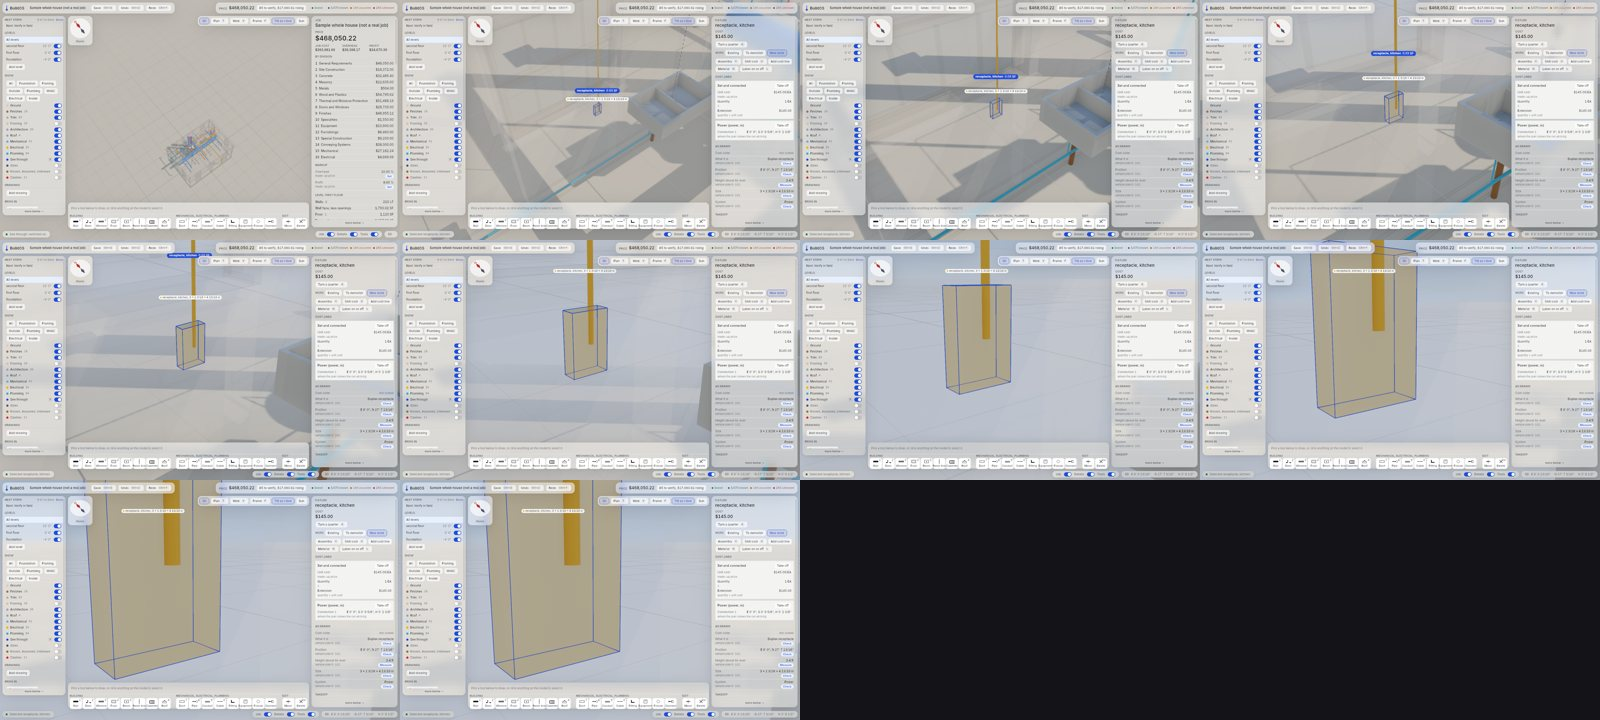
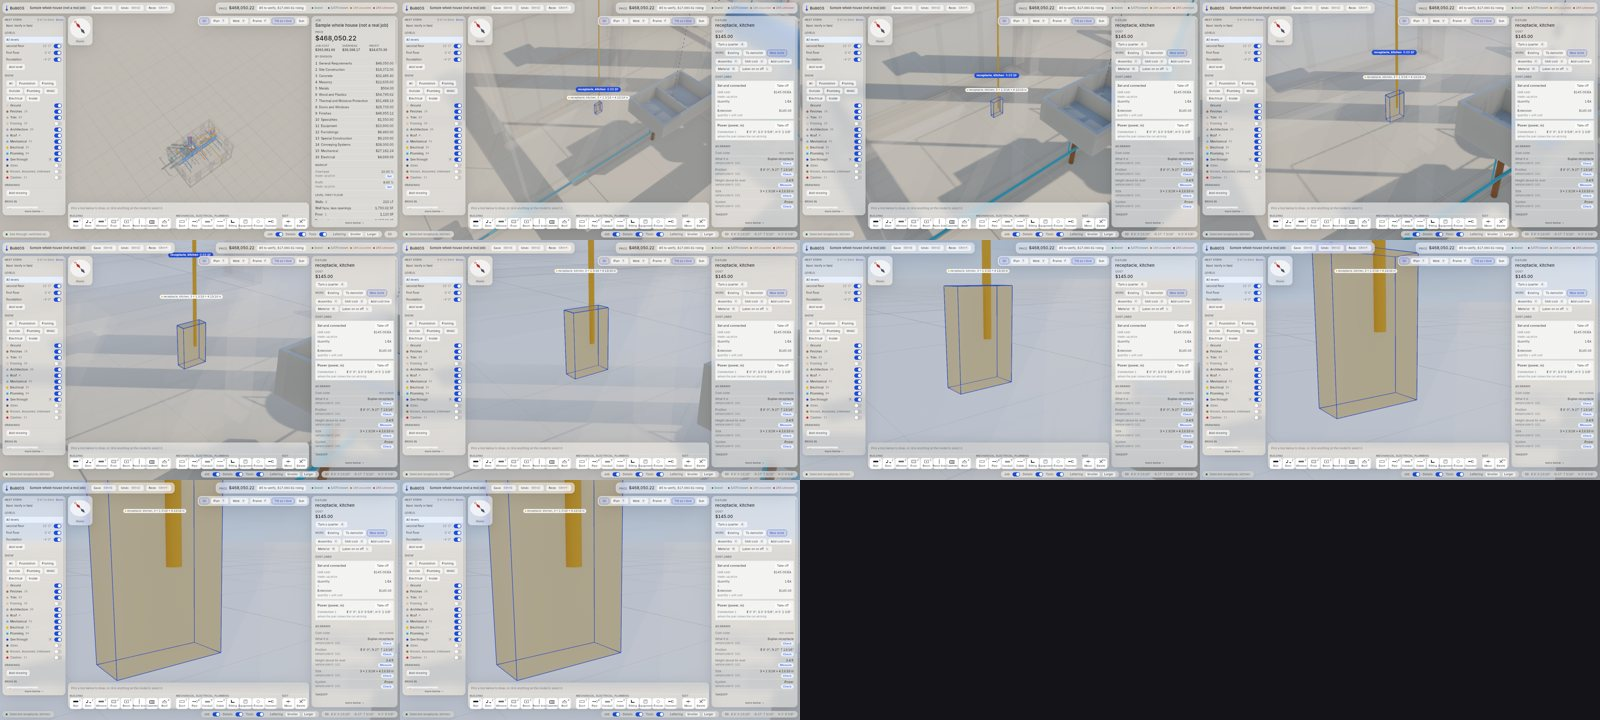
STATUS and the manual: three window demonstrations pass alone on the head; five pictures retaken
twoplansw, tradesw and navw, run by the lead with nothing beside them on the build of 18e0ad8.

Claude-Session: https://claude.ai/code/session_01PMY5GR1pyFiKe392HD99bv

diff --git a/plumbline/manual/index.html b/plumbline/manual/index.html
@@ -81,7 +81,7 @@ footer{grid-column:1/-1;border-top:1px solid var(--line);padding-top:10px;color:
 <h2 id="3-move-the-view">3. Move the view</h2>
 <ul><li><b>Wheel</b>: the view dives at the place under the pointer. One wheel goes from the whole lot to one hinge.</li><li><b>Drag</b>: the ground moves with your hand. A flick continues and slows down.</li><li><b>Right drag</b>, or <b>Shift and drag</b>, or the <b>arrow keys</b>: tilt and turn.</li><li><b>Double-click</b> a thing: the view flies to it. <b>F</b> frames the selected thing.</li><li><b>North arrow</b>: one click turns the view north-up. A double-click looks straight down.</li><li><b>Page Up</b> and <b>Page Down</b> go from level to level. <b>T</b> goes between plan and 3D.</li><li><b>Tilt as I dive</b> is a switch on the view bar.</li></ul>
 <p>No view jumps. Each move starts slowly and stops slowly.</p>
-<figure><a href="pictures/view-dive.jpg"><img src="pictures/view-dive.jpg" width="1600" height="720" loading="lazy" alt="A strip of pictures across one dive of the wheel, from the lot to a fixture."></a><figcaption>A strip of pictures across one dive of the wheel, from the lot to a fixture. <span class="stamp">Picture of commit <code>331632a</code>, 2026-11-26.</span></figcaption></figure>
+<figure><a href="pictures/view-dive.jpg"><img src="pictures/view-dive.jpg" width="1600" height="720" loading="lazy" alt="A strip of pictures across one dive of the wheel, from the lot to a fixture."></a><figcaption>A strip of pictures across one dive of the wheel, from the lot to a fixture. <span class="stamp">Picture of commit <code>18e0ad8</code>, 2026-11-26.</span></figcaption></figure>
 <p>Proven by <code>demos/navw.sh</code>. The script reads the path of the view frame by frame.</p>
 <h2 id="4-bring-in-a-plan-and-set-its-scale">4. Bring in a plan and set its scale</h2>
 <ol><li>On the Job panel, select <b>Add drawing</b>. Pick the file from the list. Pick the page.</li><li>Select <b>Set scale</b>. Click the two ends of one dimension on the drawing. Type the length that the dimension shows.</li><li>To put a second drawing in line with the first, select <b>Line up</b>.</li></ol>
@@ -102,7 +102,7 @@ footer{grid-column:1/-1;border-top:1px solid var(--line);padding-top:10px;color:
 <p>Proven by <code>demos/fieldw.sh</code> and <code>demos/field-sheet.sh</code>.</p>
 <h2 id="7-clashes-and-the-verify-in-field-list">7. Clashes and the verify-in-field list</h2>
 <ul><li>A clash between <b>Assumed</b> things is a <b>question for the field</b>.</li><li>A clash between <b>Known</b> things is a <b>finding</b>.</li><li>In the estimate window, the tab <b>Clashes</b> lists them. The tab <b>Verify in field</b> lists each question, where it is, and the dollars that depend on it. The largest dollars are first.</li><li>Pick up a thing and move it (section 9). Its clashes light and clear while it moves.</li></ul>
-<figure><a href="pictures/clash.jpg"><img src="pictures/clash.jpg" width="1800" height="690" loading="lazy" alt="Clashes marked on the house, and the list of them in the estimate window."></a><figcaption>Clashes marked on the house, and the list of them in the estimate window. <span class="stamp">Picture of commit <code>76854a3</code>, 2026-11-23.</span></figcaption></figure>
+<figure><a href="pictures/clash.jpg"><img src="pictures/clash.jpg" width="1800" height="690" loading="lazy" alt="Clashes marked on the house, and the list of them in the estimate window."></a><figcaption>Clashes marked on the house, and the list of them in the estimate window. <span class="stamp">Picture of commit <code>18e0ad8</code>, 2026-11-26.</span></figcaption></figure>
 <p>Proven by <code>demos/clashw.sh</code>, <code>demos/tradesw.sh</code>, <code>demos/clash.sh</code> and <code>demos/vif.sh</code>.</p>
 <h2 id="8-the-estimate-window">8. The estimate window</h2>
 <ul><li>The tab <b>Estimate</b> shows the recap and the 16 divisions. Other tabs show one division, the budget, the clashes and the field list.</li><li>Each line shows its quantity, its formula and its source. You can change the stretch-out on the line.</li><li>You can switch labor on or off for each line.</li><li><b>Overhead</b> and <b>Profit</b> are fields. Type a new percent.</li><li><b>Price list</b> (on the Job panel) brings in a supplier&#x27;s list. The window shows three suppliers side by side.</li><li>A price per SF or LF grows into line items for the same condition. The detail rolls up again to the same line.</li></ul>
@@ -123,8 +123,8 @@ footer{grid-column:1/-1;border-top:1px solid var(--line);padding-top:10px;color:
 <h2 id="11-see-each-trade">11. See each trade</h2>
 <p>The <b>Show</b> part of the Job panel has one switch for each layer: Foundation, Framing, Outside, Plumbing, HVAC, Electrical, Inside, Ground, Finishes, Roof, See through, Sizes. Each switch reads on or off at a glance. A trade is drawn only where the estimate prices it.</p>
 <p><b>Sun</b> on the view bar sets the month and the hour.</p>
-<figure><a href="pictures/trades-framing.jpg"><img src="pictures/trades-framing.jpg" width="1600" height="960" loading="lazy" alt="The frame of the walls, with the finishes switched off."></a><figcaption>The frame of the walls, with the finishes switched off. <span class="stamp">Picture of commit <code>76854a3</code>, 2026-11-23.</span></figcaption></figure>
-<figure><a href="pictures/trades-hvac.jpg"><img src="pictures/trades-hvac.jpg" width="1600" height="960" loading="lazy" alt="The ducts, with the house see-through."></a><figcaption>The ducts, with the house see-through. <span class="stamp">Picture of commit <code>76854a3</code>, 2026-11-23.</span></figcaption></figure>
+<figure><a href="pictures/trades-framing.jpg"><img src="pictures/trades-framing.jpg" width="1600" height="960" loading="lazy" alt="The frame of the walls, with the finishes switched off."></a><figcaption>The frame of the walls, with the finishes switched off. <span class="stamp">Picture of commit <code>18e0ad8</code>, 2026-11-26.</span></figcaption></figure>
+<figure><a href="pictures/trades-hvac.jpg"><img src="pictures/trades-hvac.jpg" width="1600" height="960" loading="lazy" alt="The ducts, with the house see-through."></a><figcaption>The ducts, with the house see-through. <span class="stamp">Picture of commit <code>18e0ad8</code>, 2026-11-26.</span></figcaption></figure>
 <p>Proven by <code>demos/tradesw.sh</code>, <code>demos/dressw.sh</code>, <code>demos/trimw.sh</code> and <code>demos/lightw.sh</code>.</p>
 <h2 id="12-bring-in-and-write-out">12. Bring in and write out</h2>
 <p>The window brings in these files, each picked from a list:</p>
@@ -154,7 +154,7 @@ footer{grid-column:1/-1;border-top:1px solid var(--line);padding-top:10px;color:
 <p>Proven by <code>demos/bringw.sh</code>, <code>demos/scanw.sh</code> and the command-line demonstrations <code>imports</code>, <code>export</code>, <code>dxf</code>, <code>scan-files</code>, <code>marks</code>, <code>database</code>, <code>field-sheet</code>, <code>bcf</code> and <code>gltf</code>.</p>
 <h2 id="13-two-plans-side-by-side">13. Two plans side by side</h2>
 <p>At the top of the estimate window, select <b>Plan</b>. The window shows a plan in place of the estimate. Select <b>Two plans</b> to show two: two levels, or a drawing beside its tracing. Each plan moves by the same wheel and drag as the model window. A thing that you select in one window is marked in the other.</p>
-<figure><a href="pictures/two-plans.jpg"><img src="pictures/two-plans.jpg" width="880" height="960" loading="lazy" alt="The second window with the first floor beside the second floor."></a><figcaption>The second window with the first floor beside the second floor. <span class="stamp">Picture of commit <code>1d0f84d</code>, 2026-11-26.</span></figcaption></figure>
+<figure><a href="pictures/two-plans.jpg"><img src="pictures/two-plans.jpg" width="880" height="960" loading="lazy" alt="The second window with the first floor beside the second floor."></a><figcaption>The second window with the first floor beside the second floor. <span class="stamp">Picture of commit <code>18e0ad8</code>, 2026-11-26.</span></figcaption></figure>
 <p>Proven by <code>demos/twoplansw.sh</code>.</p>
 <div class="part">The state of the program (from STATUS.md)</div>
 <p>What is so now. This file is short and is rewritten in place (DECISIONS.md call 238): nothing is added below, and what is no longer so is taken out. How it came to be so is the calls in <code>DECISIONS.md</code> (<code>DECISIONS-index.md</code> finds one). Everything this file held before 2026-11-26 is <code>STATUS-history.md</code>.</p>
@@ -164,7 +164,7 @@ footer{grid-column:1/-1;border-top:1px solid var(--line);padding-top:10px;color:
 <div class="scroll"><table><thead><tr><th>Step</th><th>What</th><th>Where it stands</th></tr></thead><tbody>
 <tr><td>1</td><td>The lead&#x27;s checks in the repository</td><td><b>Done.</b> <code>tools/check.sh</code>, <code>tools/window-run.sh</code>, <code>tools/quiet.sh</code>, <code>tools/index.sh</code>.</td></tr>
 <tr><td>2</td><td>Window demonstrations made sure; all forty-five run with nothing beside them</td><td><b>Begun.</b> See &quot;The window&quot; below.</td></tr>
-<tr><td>3</td><td>The manual; <code>demos/captured/</code> let go</td><td><b>Done, and it goes on</b>: <code>manual/index.html</code> (written by <code>tools/manual.py</code> from <code>manual/manual.md</code>, this file and <code>manual/pictures/</code>) is published to Patrick as one artifact, <code>https://claude.ai/artifact/DTAkAoTGMcTYEkVAXdHLYt</code> (to change it: <code>tools/manual.py take</code> the new pictures, <code>tools/manual.py build</code>, <code>tools/manual.py page &lt;file&gt;</code>, and publish that file with the pictures to the same address). Seventeen pictures, each stamped with the commit it is of; they are replaced as step 2&#x27;s runs give new ones. <code>demos/captured/</code> is no longer kept in the repository.</td></tr>
+<tr><td>3</td><td>The manual; <code>demos/captured/</code> let go</td><td><b>Done, and it goes on</b>: <code>manual/index.html</code> (written by <code>tools/manual.py</code> from <code>manual/manual.md</code>, this file and <code>manual/pictures/</code>) is published to Patrick as one artifact, <code>https://claude.ai/artifact/DTAkAoTGMcTYEkVAXdHLYt</code> (to change it: <code>tools/manual.py take</code> the new pictures, <code>tools/manual.py build</code>, <code>tools/manual.py page &lt;file&gt;</code>, and publish that file with the pictures to the same address). Seventeen pictures, each stamped with the commit it is of (five are of 18e0ad8; the oldest is of 2026-11-23); they are replaced as step 2&#x27;s runs give new ones. <code>demos/captured/</code> is no longer kept in the repository.</td></tr>
 <tr><td>4</td><td>The documents put right</td><td><b>Done.</b> Four lists are written by tools and checked by the commit hook (<code>DECISIONS-index.md</code>, the README&#x27;s demonstrations, the table in <code>LICENSES.md</code>, the manual&#x27;s page). <code>TRY-IT.md</code> is gone: the manual takes its place.</td></tr>
 <tr><td>5</td><td>The earlier program off the branch; the commit hook BuildOS&#x27;s own</td><td><b>Done.</b> It is on <code>main</code>, whole.</td></tr>
 <tr><td>6</td><td>The window takes every kind of file the command line takes</td><td>Not begun.</td></tr>
@@ -173,9 +173,9 @@ footer{grid-column:1/-1;border-top:1px solid var(--line);padding-top:10px;color:
 <tr><td>9</td><td>Items 9 to 12 judged again</td><td>Not begun.</td></tr>
 </tbody></table></div>
 <h2 id="state-what-was-run-and-on-which-commit">What was run, and on which commit</h2>
-<ul><li><b>The command line&#x27;s side, on b6dc2ab</b> (the lead&#x27;s own run, 2026-11-26): 1,344 tests of the six crates pass (the model 759, the command line 94, the workbook 7, the BIM file 131, the roof 122, the plans 231); all 69 command-line demonstrations pass and none says FAIL; the three gates, the port map and the licence check pass; the sample whole house (<code>plumbline sixteen</code>) is 880d9fd3c364b5f7, as it has been, and prices at $393,981.66.</li><li><b>The window&#x27;s own tests, on the head with the double-click repair</b>: 109 pass.</li><li><b><code>tools/committed.sh</code> passed on 1edb650</b> (108 test runs from a clean copy). It has not been run since; it is owed before the next push that changes code.</li><li>After the earlier program left the branch, the roofing crate&#x27;s 122 tests were run again and pass (three of them read two of its files, now kept byte for byte in <code>crates/roofing/tests/engine/</code>). The two rewritten gates were each proved red and green (<code>tools/gate-language.sh --self-test</code>; a socket and a network crate for <code>tools/gate-egress.sh</code>).</li></ul>
+<ul><li><b>The command line&#x27;s side, on b6dc2ab</b> (the lead&#x27;s own run, 2026-11-26): 1,344 tests of the six crates pass (the model 759, the command line 94, the workbook 7, the BIM file 131, the roof 122, the plans 231); all 69 command-line demonstrations pass and none says FAIL; the three gates, the port map and the licence check pass; the sample whole house (<code>plumbline sixteen</code>) is 880d9fd3c364b5f7, as it has been, and prices at $393,981.66.</li><li><b>The window&#x27;s own tests, on the build of 18e0ad8</b>: 109 pass.</li><li><b><code>tools/committed.sh</code> passed on 1edb650</b> (108 test runs from a clean copy). It has not been run since; it is owed before the next push that changes code.</li><li>After the earlier program left the branch, the roofing crate&#x27;s 122 tests were run again and pass (three of them read two of its files, now kept byte for byte in <code>crates/roofing/tests/engine/</code>). The two rewritten gates were each proved red and green (<code>tools/gate-language.sh --self-test</code>; a socket and a network crate for <code>tools/gate-egress.sh</code>).</li></ul>
 <h2 id="state-the-window">The window</h2>
-<p><b>Not proven on the head.</b> The window builds on the head and its 109 tests pass. Of the forty-five window demonstrations, the lead&#x27;s last runs (2026-11-26, on the build before the head, with builds running beside them) gave: <code>screensw</code> passed; <code>twoplansw</code> failed twice at its step 7 (a double-click in a plan selected and did not fly); <code>tradesw</code> failed twice at a different click each time; the other forty-two were not run. Ten had passed on the build before that. <b>A repair of the double-click is in the working copy, not committed</b>: the demonstration&#x27;s two presses were 0.75 s apart and the program tells a double-click inside half a second of its own clock; the presses now go 0.4 s apart, and the model window&#x27;s double-click takes the same one function as the other two (<code>nav::again</code>). It is committed when <code>twoplansw</code> passes in the lead&#x27;s own run with nothing beside it.</p>
+<p><b>Three of forty-five proven on the head; the rest not yet run.</b> The window builds on the head and its 109 tests pass. Run by the lead on 2026-11-26 with nothing beside them (<code>tools/window-run.sh</code>), on the build of 18e0ad8: <code>twoplansw</code>, <code>tradesw</code> and <code>navw</code> each passed on its first run. The double-click in a plan that had failed twice was the demonstration&#x27;s own pacing (two presses 0.75 s apart, where the program tells a double-click inside half a second of its clock); it is repaired in 18e0ad8, and the three double-clicks of the program are now told by one function. The other forty-two were last run on earlier builds, some with builds beside them; they are run again, alone, when the kit job (contract 237K: a press waits until the window has drawn) is in.</p>
 <p><b>The rule that was broken, and is now held by a tool.</b> No build runs on the machine while a timed window demonstration runs. On 2026-11-26 the lead ran builds beside them in the idle class; <code>navw</code>, <code>tradesw</code> and <code>twoplansw</code> lost clicks or time, and a day&#x27;s window evidence with them. <code>tools/window-run.sh</code> holds a lock and waits for cargo to be gone; every other cargo command goes through <code>tools/quiet.sh</code>.</p>
 <p><b>What the window cannot do that the command line can</b> (step 6): bring in a CAD drawing (DXF), a TIFF, a scanner&#x27;s own files (LAS, LAZ, E57), the measured marks on a PDF, a maker&#x27;s model, the database, the field&#x27;s sheet; write out the issue list (BCF), the house as glTF, the field&#x27;s sheet, the database, the cabinet rules. It brings in PDF, PNG, JPEG, CSV, XLSX, IFC and PLY.</p>
 <p><b>Owed to the window from work already in the tree</b>: its three counts of the chest (48) become 57 (<code>cabinetsw</code>, <code>turnw</code>, <code>itemlibw</code>; call 235); a cabinet made by a rule says so; a starter shape is still drawn through the program&#x27;s list of forms and a washer&#x27;s door is square (call 235, points 4 and 5).</p>
@@ -197,7 +197,7 @@ footer{grid-column:1/-1;border-top:1px solid var(--line);padding-top:10px;color:
 <tr><td>13</td><td>A hand estimate in <code>refs/</code> reproduced, every difference explained</td><td><b>Pending</b>: there is none in <code>refs/</code>. Only Patrick can place one.</td></tr>
 </tbody></table></div>
 <h2 id="state-what-is-not-right">What is not right</h2>
-<ul><li>The window is behind the command line and unproven on the head (steps 2 and 6).</li><li>Eleven source files are over 2,000 lines (step 7): <code>crates/world/tests/world.rs</code> 6,713; <code>crates/cli/src/main.rs</code> 4,310; <code>crates/app/src/panels.rs</code> 4,017; <code>crates/world/src/building.rs</code> 3,944; <code>crates/app/src/scene.rs</code> 3,248; <code>crates/plans/src/found.rs</code> 2,930; <code>crates/ifc/src/lib.rs</code> 2,852; <code>crates/world/src/editing.rs</code> 2,666; and three more.</li><li>The repository&#x27;s history is 1.76 GB, most of it pictures. History is not rewritten (call 237). Pictures are no longer kept in the repository but for the manual&#x27;s (one fixed name each, about 3 MB together), and the README&#x27;s clone line takes only the newest commit.</li><li>The folder, the crates and the two commands are still named plumbline (step 8).</li><li>Neither wall finder turns a real phone scan, or a crowded plan, into walls by itself: a person traces and the finder helps.</li><li>A double-click is told by the program&#x27;s own clock, and a demonstration&#x27;s two presses must fall inside half a second of it. <code>twoplansw</code> was repaired for that; <code>navw</code>&#x27;s north arrow still sends its presses 0.6 s apart and passes only where a frame is slow. It is put right in step 2.</li><li>Designed and not built: an issue list (BCF) read back; a mesh brought in; glTF with each thing as its own shape; the sixteen division harnesses (<code>PROPOSALS.md</code> 21).</li></ul>
+<ul><li>The window is behind the command line and unproven on the head (steps 2 and 6).</li><li>Eleven source files are over 2,000 lines (step 7): <code>crates/world/tests/world.rs</code> 6,713; <code>crates/cli/src/main.rs</code> 4,310; <code>crates/app/src/panels.rs</code> 4,017; <code>crates/world/src/building.rs</code> 3,944; <code>crates/app/src/scene.rs</code> 3,248; <code>crates/plans/src/found.rs</code> 2,930; <code>crates/ifc/src/lib.rs</code> 2,852; <code>crates/world/src/editing.rs</code> 2,666; and three more.</li><li>The repository&#x27;s history is 1.76 GB, most of it pictures. History is not rewritten (call 237). Pictures are no longer kept in the repository but for the manual&#x27;s (one fixed name each, about 3 MB together), and the README&#x27;s clone line takes only the newest commit.</li><li>The folder, the crates and the two commands are still named plumbline (step 8).</li><li>Neither wall finder turns a real phone scan, or a crowded plan, into walls by itself: a person traces and the finder helps.</li><li><code>navw</code>&#x27;s north arrow still sends its two presses 0.6 s apart and passes only where a frame is slow, as here. Contract 237K gives the kit one double-click paced inside the half second.</li><li>Designed and not built: an issue list (BCF) read back; a mesh brought in; glTF with each thing as its own shape; the sixteen division harnesses (<code>PROPOSALS.md</code> 21).</li></ul>
 <h2 id="state-what-only-patrick-can-give-nothing-waits-on-it">What only Patrick can give (nothing waits on it)</h2>
 <p>A sanitized hand estimate in <code>refs/</code> (item 13); a sanitized PDF with his own measured marks (<code>QUESTIONS.md</code> Q36); a real LAZ and a real E57, sanitized; the production ruling, after the tag.</p>
 <h2 id="state-how-the-work-is-run">How the work is run</h2>

diff --git a/plumbline/STATUS.md b/plumbline/STATUS.md
@@ -17,7 +17,7 @@ the build goes on without asking him, and what he is sent is the manual, changed
 |---|---|---|
 | 1 | The lead's checks in the repository | **Done.** `tools/check.sh`, `tools/window-run.sh`, `tools/quiet.sh`, `tools/index.sh`. |
 | 2 | Window demonstrations made sure; all forty-five run with nothing beside them | **Begun.** See "The window" below. |
-| 3 | The manual; `demos/captured/` let go | **Done, and it goes on**: `manual/index.html` (written by `tools/manual.py` from `manual/manual.md`, this file and `manual/pictures/`) is published to Patrick as one artifact, `https://claude.ai/artifact/DTAkAoTGMcTYEkVAXdHLYt` (to change it: `tools/manual.py take` the new pictures, `tools/manual.py build`, `tools/manual.py page <file>`, and publish that file with the pictures to the same address). Seventeen pictures, each stamped with the commit it is of; they are replaced as step 2's runs give new ones. `demos/captured/` is no longer kept in the repository. |
+| 3 | The manual; `demos/captured/` let go | **Done, and it goes on**: `manual/index.html` (written by `tools/manual.py` from `manual/manual.md`, this file and `manual/pictures/`) is published to Patrick as one artifact, `https://claude.ai/artifact/DTAkAoTGMcTYEkVAXdHLYt` (to change it: `tools/manual.py take` the new pictures, `tools/manual.py build`, `tools/manual.py page <file>`, and publish that file with the pictures to the same address). Seventeen pictures, each stamped with the commit it is of (five are of 18e0ad8; the oldest is of 2026-11-23); they are replaced as step 2's runs give new ones. `demos/captured/` is no longer kept in the repository. |
 | 4 | The documents put right | **Done.** Four lists are written by tools and checked by the commit hook (`DECISIONS-index.md`, the README's demonstrations, the table in `LICENSES.md`, the manual's page). `TRY-IT.md` is gone: the manual takes its place. |
 | 5 | The earlier program off the branch; the commit hook BuildOS's own | **Done.** It is on `main`, whole. |
 | 6 | The window takes every kind of file the command line takes | Not begun. |
@@ -33,7 +33,7 @@ the build goes on without asking him, and what he is sent is the manual, changed
   none says FAIL; the three gates, the port map and the licence check pass; the sample
   whole house (`plumbline sixteen`) is 880d9fd3c364b5f7, as it has been, and prices at
   $393,981.66.
-- **The window's own tests, on the head with the double-click repair**: 109 pass.
+- **The window's own tests, on the build of 18e0ad8**: 109 pass.
 - **`tools/committed.sh` passed on 1edb650** (108 test runs from a clean copy). It has
   not been run since; it is owed before the next push that changes code.
 - After the earlier program left the branch, the roofing crate's 122 tests were run
@@ -44,17 +44,16 @@ the build goes on without asking him, and what he is sent is the manual, changed
 
 ## The window
 
-**Not proven on the head.** The window builds on the head and its 109 tests pass.
-Of the forty-five window demonstrations, the lead's last runs (2026-11-26, on the
-build before the head, with builds running beside them) gave: `screensw` passed;
-`twoplansw` failed twice at its step 7 (a double-click in a plan selected and did not
-fly); `tradesw` failed twice at a different click each time; the other forty-two
-were not run. Ten had passed on the build before that. **A repair of the
-double-click is in the working copy, not committed**: the demonstration's two presses
-were 0.75 s apart and the program tells a double-click inside half a second of its own
-clock; the presses now go 0.4 s apart, and the model window's double-click takes the
-same one function as the other two (`nav::again`). It is committed when `twoplansw`
-passes in the lead's own run with nothing beside it.
+**Three of forty-five proven on the head; the rest not yet run.** The window builds on
+the head and its 109 tests pass. Run by the lead on 2026-11-26 with nothing beside
+them (`tools/window-run.sh`), on the build of 18e0ad8: `twoplansw`, `tradesw` and
+`navw` each passed on its first run. The double-click in a plan that had failed twice
+was the demonstration's own pacing (two presses 0.75 s apart, where the program
+tells a double-click inside half a second of its clock); it is repaired in 18e0ad8,
+and the three double-clicks of the program are now told by one function. The other
+forty-two were last run on earlier builds, some with builds beside them; they are
+run again, alone, when the kit job (contract 237K: a press waits until the window
+has drawn) is in.
 
 **The rule that was broken, and is now held by a tool.** No build runs on the machine
 while a timed window demonstration runs. On 2026-11-26 the lead ran builds beside them
@@ -109,10 +108,9 @@ build it.
 - The folder, the crates and the two commands are still named plumbline (step 8).
 - Neither wall finder turns a real phone scan, or a crowded plan, into walls by
   itself: a person traces and the finder helps.
-- A double-click is told by the program's own clock, and a demonstration's two presses
-  must fall inside half a second of it. `twoplansw` was repaired for that;
-  `navw`'s north arrow still sends its presses 0.6 s apart and passes only where a
-  frame is slow. It is put right in step 2.
+- `navw`'s north arrow still sends its two presses 0.6 s apart and passes only where
+  a frame is slow, as here. Contract 237K gives the kit one double-click paced inside
+  the half second.
 - Designed and not built: an issue list (BCF) read back; a mesh brought in; glTF with
   each thing as its own shape; the sixteen division harnesses (`PROPOSALS.md` 21).
 
